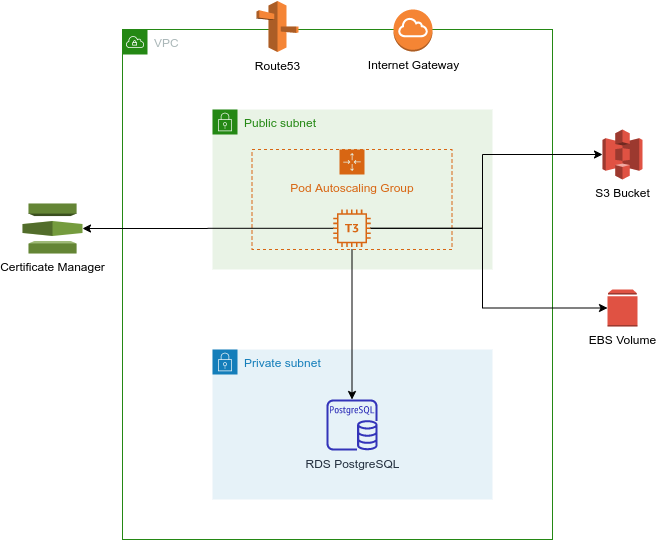
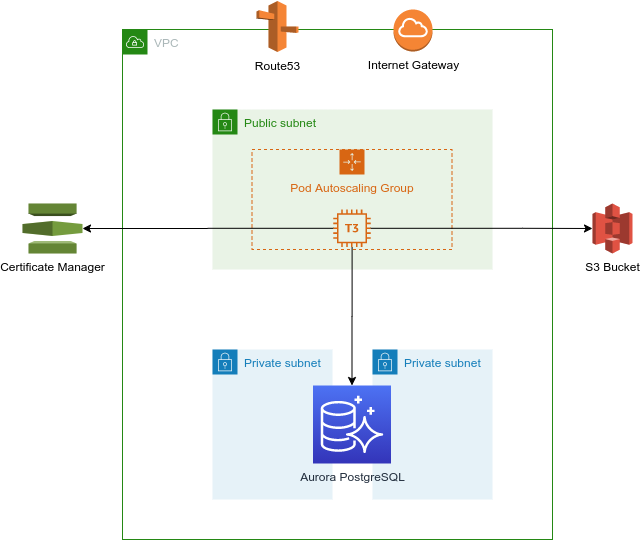
Add skeleton low-cost CF template

diff --git a/README.md b/README.md
@@ -7,8 +7,10 @@ Due to the wide range of cost and reliability requirements, we can think of two 
 high reliability, and the other one focused on low cost.
 
 ### Low-cost
-We'll start with the simpler, low-cost architecture. This can be run for about $30/month in Ireland (eu-west-1). Please
-refer to the following [AWS Pricing Calculator estimate](https://calculator.aws/#/estimate?id=aa9088fca91ba2d0014ec647456810b9c324067a).
+We'll start with the simpler, low-cost architecture. While it still provides high availability, rolling updates require
+downtime. The advantage is that this stack can be run for less than $20/month in Ireland (eu-west-1).
+
+Please refer to the following [AWS Pricing Calculator estimate](https://calculator.aws/#/estimate?id=1966a424bb82d72b8f68622697035a8aab7428ed).
 
 ![Low-cost Infrastructure Diagram](./low_cost/infra-diagram.png)
 
@@ -24,17 +26,15 @@ a security group to only allow SSH from the VPC (using a bastion host). Only web
 This contains one instance running an AMI with all [components](https://wiki.diasporafoundation.org/Diasporas_components_explained)
 installed, except database. Running in ASG provides higher availability as the ASG will restart failed instances.
 
-#### EBS Volume
-The EBS volume mounted on the pod instance. This EBS volume has automated snapshot enabled via CloudWatch events.
-
 #### Certificate Manager
 Certificate Manager to obtain a TLS certificate for the web server.
 
 #### S3 Bucket
 This bucket to host assets as explained in the diaspora* documentation on [hosting assets on S3](https://wiki.diasporafoundation.org/Asset_hosting_on_S3).
 
-#### RDS Database
-This PostgreSQL on RDS database runs in a private subnet. It is a single-AZ database with automatic snapshots enabled.
+#### Aurora PostgreSQL
+This PostgreSQL on Aurora database runs in private subnets. It is a serverless database, which reduces cost by only
+paying for the periods of usage.
 
 ### Reliable
 *NOTE: This is a draft diagram*
